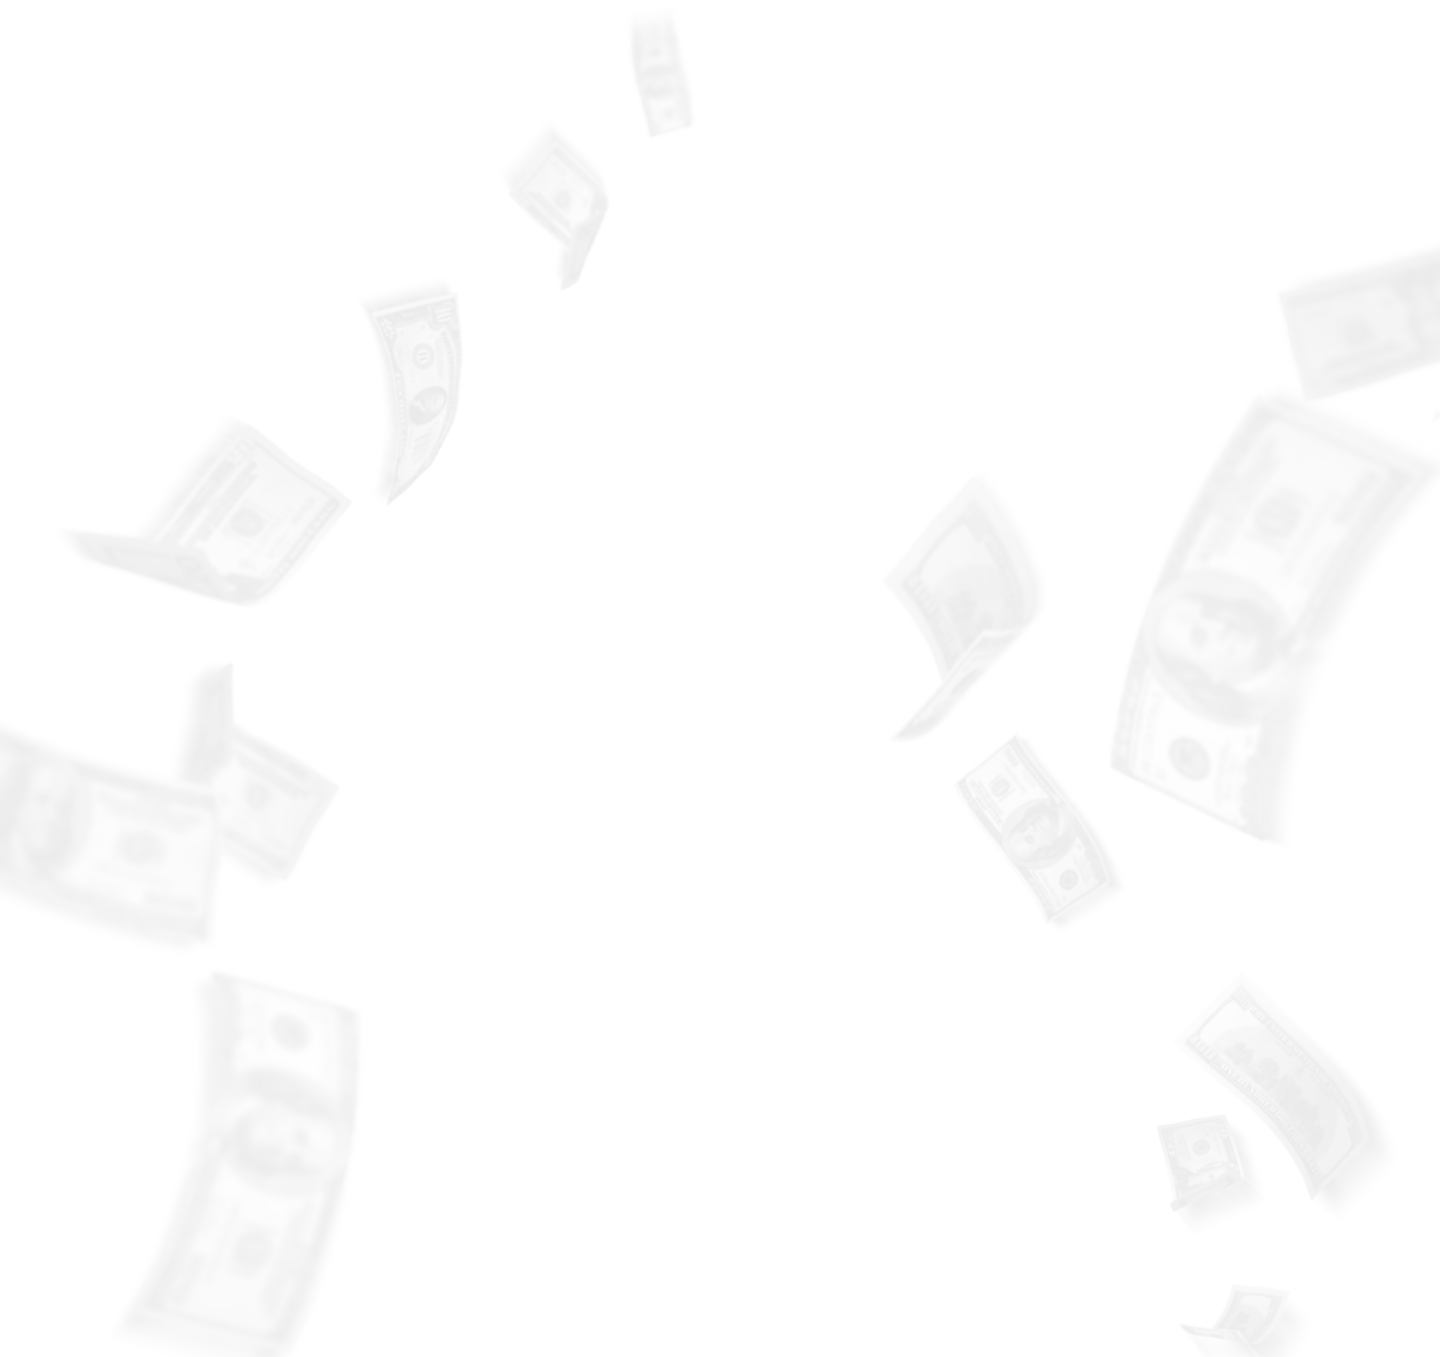
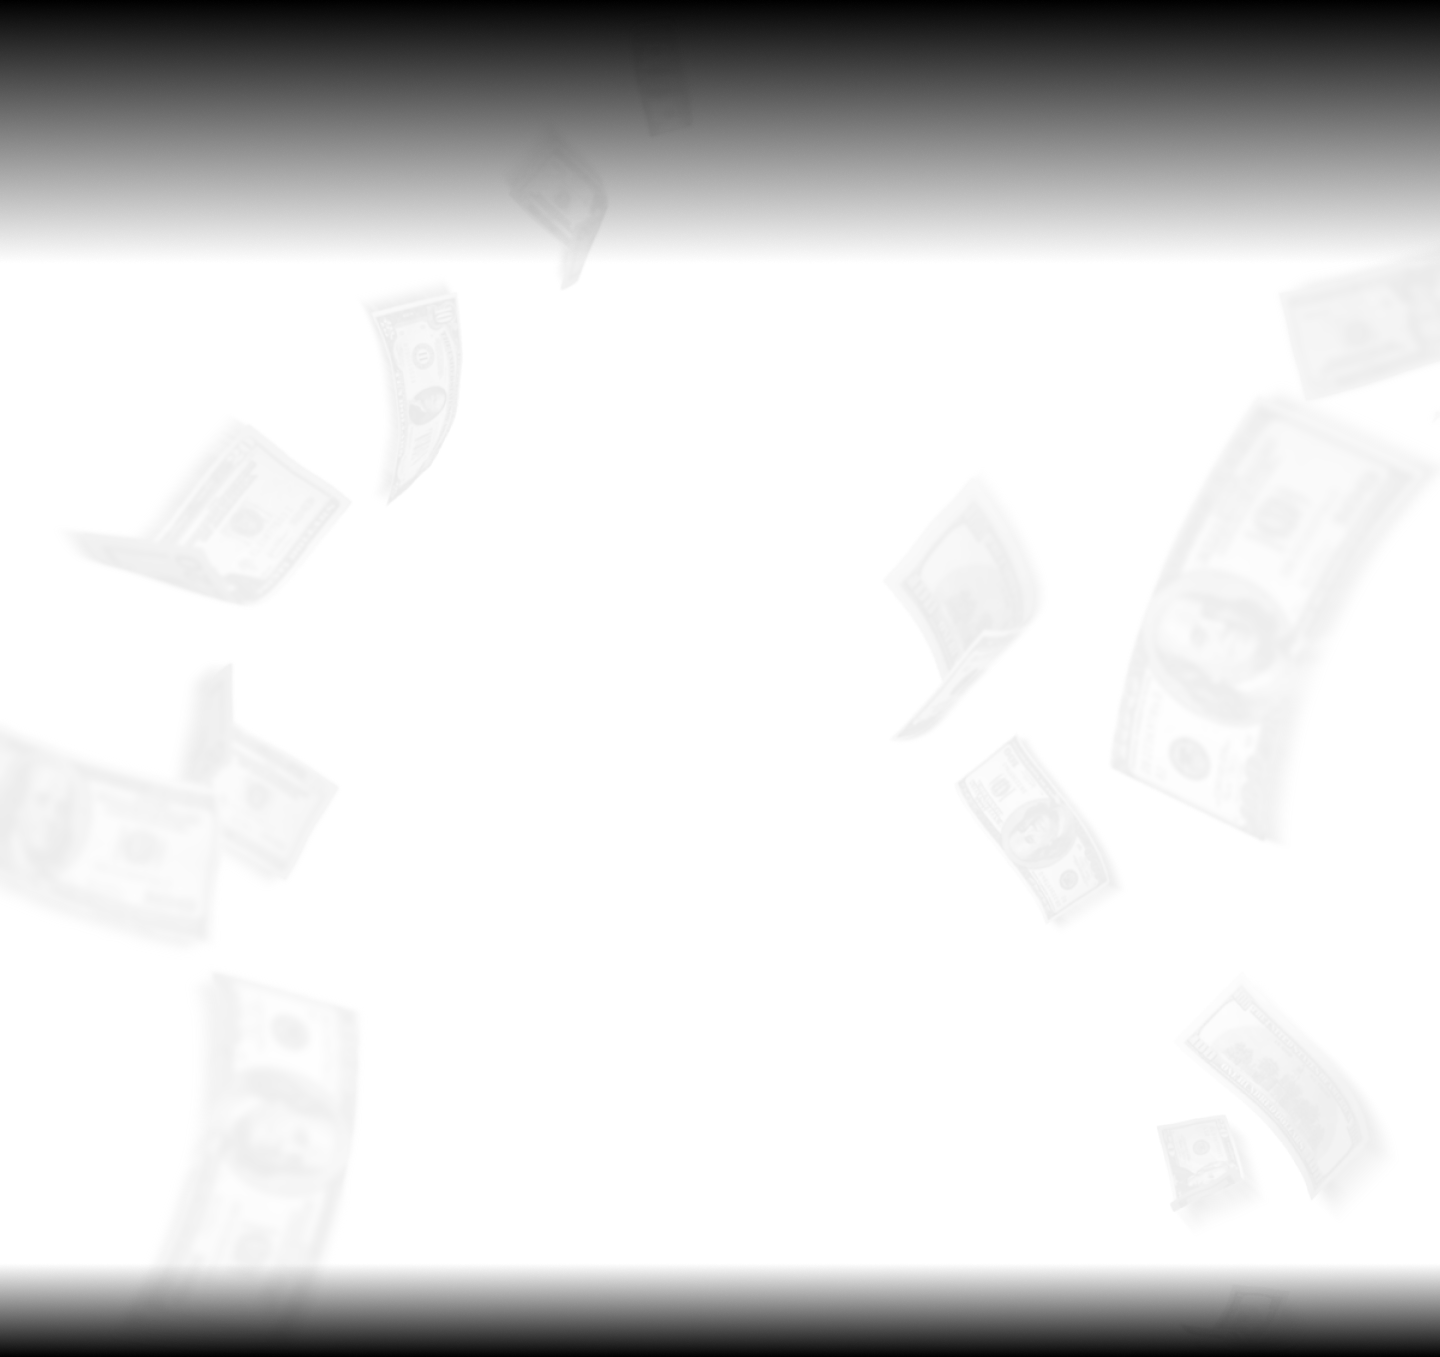
[/] Changing some styles in components

Changed region(s): [[0.0, 0.0, 1.0, 0.1857], [0.0, 0.9285, 1.0, 1.0]]

diff --git a/src/components/AboutLayout.vue b/src/components/AboutLayout.vue
@@ -2,15 +2,15 @@
   <section
     class="about_section"
     :class="{
-      'bg-custom_dark': this.system_color,
-      'bg-custom_light': !this.system_color,
+      'bg-custom_dark_image': this.system_color,
+      'bg-custom_light_image': !this.system_color,
     }"
   >
-    <div class="about_content_layer h-full w-full">
+    <div class="about_content_layer">
       <div class="container mx-auto">
         <div class="about_content_title text-center mx-auto uppercase pt-10">
           <h1
-            class="font-moonhouse md:text-[6rem] text-[2rem]"
+            class="font-moonhouse md:text-[6rem] text-[2rem] leading-[5rem] md:mb-[3rem]"
             :class="{
               'text-dark_yellow': this.system_color,
               'text-light_indigo': !this.system_color,
@@ -20,7 +20,7 @@
             haqida batafsil
           </h1>
           <p
-            class="w-[80%] font-unbounded text-xl mx-auto"
+            class="w-[80%] font-unbounded text-[14px] md:text-xl mx-auto"
             :class="{
               'text-white': this.system_color,
               'text-black': !this.system_color,
@@ -32,12 +32,12 @@
             bilan ishlang, eng yaxshi natijalarga erishish uchun!
           </p>
         </div>
-        <div class="about_content_price my-[10rem] relative">
+        <div class="about_content_price my-[4rem] relative">
           <div
             class="md:relative md:hidden md:w-auto md:text-left mx-auto w-[300px] text-center block top-0 right-0"
           >
             <div
-              class="about_price inline-block py-4 px-10 relative rotate-12"
+              class="about_price inline-block py-4 px-10 relative rotate-[5deg]"
               :class="{
                 'bg-dark_yellow': !this.system_color,
                 'bg-light_indigo': this.system_color,
@@ -65,7 +65,7 @@
               />
             </div>
           </div>
-          <ul class="prices_group md:flex gap-4 my-10 px-10">
+          <ul class="prices_group md:flex gap-4 my-10 px-5">
             <li
               class="prices_item uppercase font-normal"
               :class="{
@@ -124,34 +124,9 @@
               </div>
             </div>
             <div
-              :class="{
-                'border-white': this.system_color,
-                'border-black': !this.system_color,
-              }"
-              class="about_data w-[400px] md:w-2/4 relative py-4 mt-[5rem] px-10 border inline-block text-center -rotate-3"
+              class="about_data w-[300px] mx-auto md:mx-0 md:w-2/4 bottom-10 md:bottom-[10rem] relative -rotate-3"
             >
-              <img
-                src="../assets/white.png"
-                alt=""
-                class="absolute z-50 md:-left-[6rem] -top-[5rem]"
-                v-if="this.system_color"
-              />
-              <img
-                src="../assets/black.png"
-                alt=""
-                class="absolute z-50 md:-left-[6rem] -top-[5rem]"
-                v-if="!this.system_color"
-              />
-              <h1
-                class="md:text-[2rem] uppercase font-bruno"
-                :class="{
-                  'text-white': this.system_color,
-                  'text-black': !this.system_color,
-                }"
-              >
-                “hackathon” 25-iyul kuni <br />
-                soat 10:00 da bo'lib o'tadi.
-              </h1>
+              <img :src="imageSrc" alt="About Price" class="w-full" />
             </div>
           </div>
         </div>
@@ -162,6 +137,8 @@
 </template>
 <script>
 import Lines from "./Lines.vue";
+import aboutPrice from "../assets/about_price.png";
+import aboutPriceDark from "../assets/about_price_dark.png";
 
 export default {
   data() {
@@ -188,6 +165,9 @@ export default {
     arrowImage() {
       return this.system_color ? "../assets/white.png" : "../assets/black.png";
     },
+    imageSrc() {
+      return this.system_color ? aboutPrice : aboutPriceDark;
+    },
   },
   mounted() {
     const storedItem = JSON.parse(localStorage.getItem("switch"));
@@ -199,23 +179,6 @@ export default {
 </script>
 <style scoped>
 .about_section {
-  padding: 1rem 0;
-}
-
-.about_content_layer {
-  background: url("../assets/money_bg.png");
-  background-repeat: no-repeat;
-  background-size: cover;
-}
-
-.bg-custom_dark {
-  background: linear-gradient(to right, #000000, #1d1d1d, #000000);
-  height: 100%;
-  width: 100%;
-}
-.bg-custom_light {
-  background: linear-gradient(to right, #e9e9e9, #ffffff, #e9e9e9);
-  height: 100%;
-  width: 100%;
+  padding: 8rem 0 0 0;
 }
 </style>

diff --git a/src/components/HeaderLayout.vue b/src/components/HeaderLayout.vue
@@ -6,10 +6,10 @@
       'bg-custom_light': !system_color,
     }"
   >
-    <div class="header_custom_bg md:!h-[110vh] !h-[700px]">
+    <div class="header_custom_bg md:!h-[110vh] !h-[500px]">
       <div class="container mx-auto">
         <div
-          class="header_navbar flex items-center justify-between py-4 relative z-20"
+          class="header_navbar px-4 flex items-center justify-between py-4 relative z-20"
         >
           <div class="navbar_logo">
             <img src="../assets/logo.png" alt="Logo" />
@@ -28,7 +28,7 @@
         <div class="header_content relative">
           <div class="header_title text-center uppercase">
             <h1
-              class="md:text-[200px] text-[100px] font-moonhouse"
+              class="md:text-[200px] text-[75px] font-moonhouse"
               :class="{
                 'text-dark_yellow': system_color,
                 'text-light_indigo': !system_color,
@@ -39,7 +39,7 @@
               <span> athon </span>
             </h1>
             <p
-              class="md:text-2xl text-sm w-2/3 mx-auto font-unbounded"
+              class="md:text-2xl text-sm mx-auto font-unbounded"
               :class="{ 'text-white': system_color }"
             >
               Django Academy tomonidan o'tkaziladigan qiziqarli xakatonda
@@ -57,20 +57,21 @@
             </button>
           </div>
           <div
-            class="header_image absolute  top-10 md:top-[5rem] left-1/2 -translate-x-1/2 w-1/3"
+            class="header_image absolute top-5 md:top-[1rem] left-1/2 -translate-x-1/2 w-1/2 md:w-1/3"
           >
             <img :src="headerImage" alt="" class="w-full" />
           </div>
         </div>
       </div>
     </div>
-    <Lines />
+    <LineHeader />
   </header>
 </template>
 
 <script>
 import headDark from "../assets/head_dark.png";
 import headLight from "../assets/head_light.png";
+import LineHeader from "./LineHeader.vue";
 import Lines from "./Lines.vue";
 
 export default {
@@ -82,6 +83,7 @@ export default {
   methods: {
     handleSwitch() {
       this.system_color = !this.system_color;
+
       window.location.reload();
       localStorage.setItem("switch", JSON.stringify(this.system_color));
     },
@@ -96,8 +98,11 @@ export default {
     if (storedItem !== null) {
       this.system_color = storedItem;
     }
+    if (this.system_color) {
+      document.body.style.backgroundColor = "#0d0d0d";
+    }
   },
-  components: { Lines },
+  components: { Lines, LineHeader },
 };
 </script>
 

diff --git a/src/components/FooterLayout.vue b/src/components/FooterLayout.vue
@@ -1,16 +1,10 @@
 <template>
-  <section
-    class="footer_section py-6"
-    :class="{
-      'bg-custom_dark': system_color,
-      'bg-custom_light': !system_color,
-    }"
-  >
+  <section class="footer_section py-10">
     <div class="container mx-auto px-4 md:px-8">
       <div class="flex flex-col md:flex-row justify-between items-center">
         <div class="footer_title w-full md:w-1/2 mb-6 md:mb-0">
           <h1
-            class="text-4xl md:text-[6rem] leading-[6rem] font-moonhouse"
+            class="text-4xl md:text-[6rem] md:leading-[6rem] font-moonhouse"
             :class="{
               'text-dark_yellow': system_color,
               'text-light_indigo': !system_color,
@@ -31,7 +25,7 @@
           </p>
         </div>
         <div class="footer_contact w-full md:w-1/3">
-          <form @submit="handleSubmit" class="footer_form">
+          <form @submit="handleSubmit" class="footer_form font-unbounded">
             <div class="mb-6">
               <label
                 for="fullname"
@@ -45,7 +39,7 @@
               <input
                 type="text"
                 placeholder="ABDULLA"
-                class="outline-none py-2 px-4 w-full border-2 rounded-lg bg-transparent"
+                class="outline-none placeholder:text-xl p-[23px] w-full border-2 bg-transparent"
                 :class="{
                   'border-dark_yellow text-white': this.system_color,
                   'border-light_indigo text-black': !this.system_color,
@@ -67,7 +61,7 @@
               <input
                 type="text"
                 placeholder="+998 99 990 90 09"
-                class="py-2 outline-none px-4 w-full border-2 rounded-lg bg-transparent"
+                class="outline-none placeholder:text-xl p-[23px] w-full border-2 bg-transparent"
                 :class="{
                   'border-dark_yellow text-white': this.system_color,
                   'border-light_indigo text-black': !this.system_color,
@@ -88,7 +82,7 @@
               >
               <select
                 @change="console.log(this.user_course)"
-                class="outline-none py-2 px-4 w-full border-2 rounded-lg bg-transparent"
+                class="outline-none placeholder:text-xl p-[23px] w-full border-2 bg-transparent"
                 :class="{
                   'border-dark_yellow text-white': this.system_color,
                   'border-light_indigo text-black': !this.system_color,

diff --git a/src/components/LineHeader.vue b/src/components/LineHeader.vue
@@ -1,14 +1,26 @@
 <template>
-  <div class="relative top-10">
-    <div class="ticker-wrapper md:bottom-[4rem] bottom-[2rem] z-[2] rotate-[3deg]">
-      <div class="ticker md:p-[30px] p-[1.5rem] bg_line_indigo_gradient">
+  <div class="relative top-0">
+    <div class="ticker-wrapper z-[2] rotate-[3deg]">
+      <div
+        class="ticker"
+        :class="{
+          bg_line_indigo_gradient: this.system_color,
+          bg_line_yellow_gradient: !this.system_color,
+        }"
+      >
         <div class="text font-unbounded">
           <span v-for="item in words">{{ item }}</span>
         </div>
       </div>
     </div>
-    <div class="ticker-wrapper md:bottom-[4rem] bottom-[2rem]  z-[3] rotate-[-3deg]">
-      <div class="ticker md:p-[30px] p-[1.5rem] bg_line_indigo_gradient">
+    <div class="ticker-wrapper z-[3] rotate-[-3deg]">
+      <div
+        class="ticker"
+        :class="{
+          bg_line_indigo_gradient: this.system_color,
+          bg_line_yellow_gradient: !this.system_color,
+        }"
+      >
         <div class="text font-unbounded">
           <span v-for="item in words">{{ item }}</span>
         </div>
@@ -70,6 +82,7 @@ export default {
 
 .ticker {
   transform: rotate(-0.53deg);
+  padding: 30px;
   height: 100%;
   display: flex;
   align-items: center;

diff --git a/src/style.css b/src/style.css
@@ -24,7 +24,7 @@ body {
 }
 
 .header_custom_bg {
-  background: url(../assets/header_image.png);
+  background: url("./assets/header_image.png");
   background-repeat: no-repeat;
   background-size: cover;
 }
@@ -52,4 +52,23 @@ body {
 }
 .bg_indigo_gradient {
   background: linear-gradient(to right, #781fe380, #781fe3);
+}
+
+.bg_line_yellow_gradient {
+  background: linear-gradient(to right, #b2e000, #caff00, #b2e000);
+}
+
+.bg_line_indigo_gradient {
+  background: linear-gradient(to right, #6013bc, #781fe3, #6013bc);
+}
+
+.bg-custom_dark_image {
+  background: url("./assets/money_bg.png");
+  background-repeat: no-repeat;
+  background-size: cover;
+}
+.bg-custom_light_image {
+  background: url("./assets/money_white.png");
+  background-repeat: no-repeat;
+  background-size: cover;
 }
